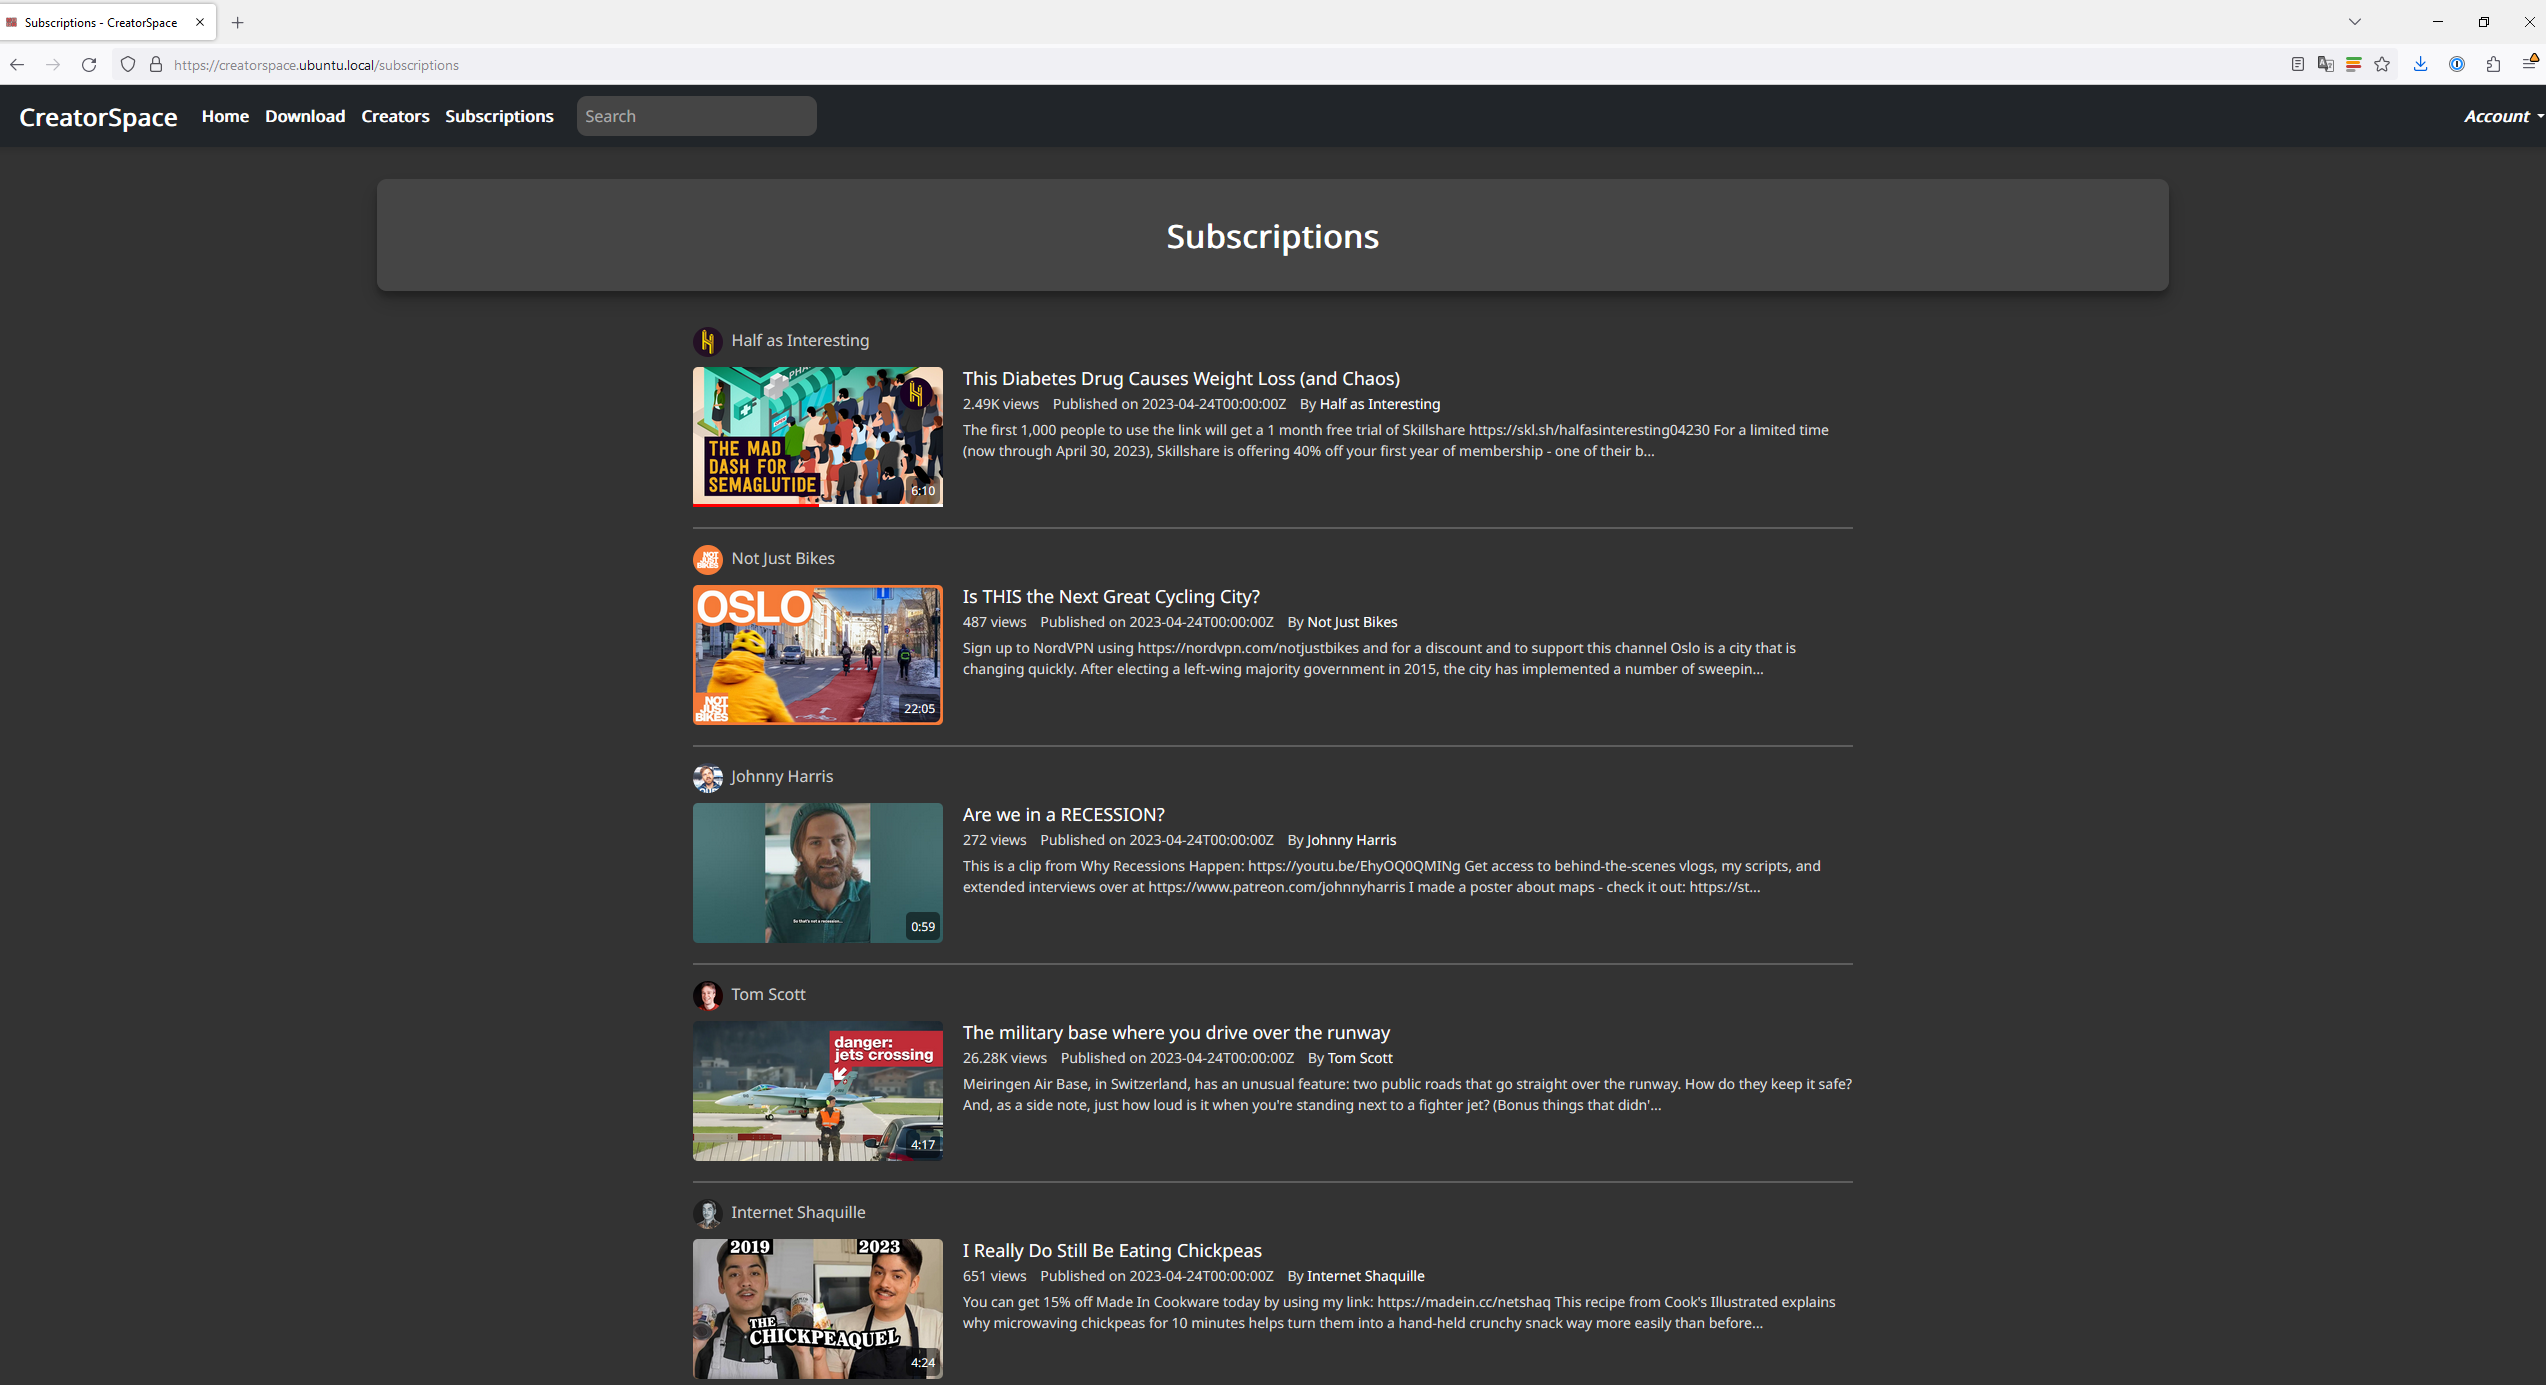
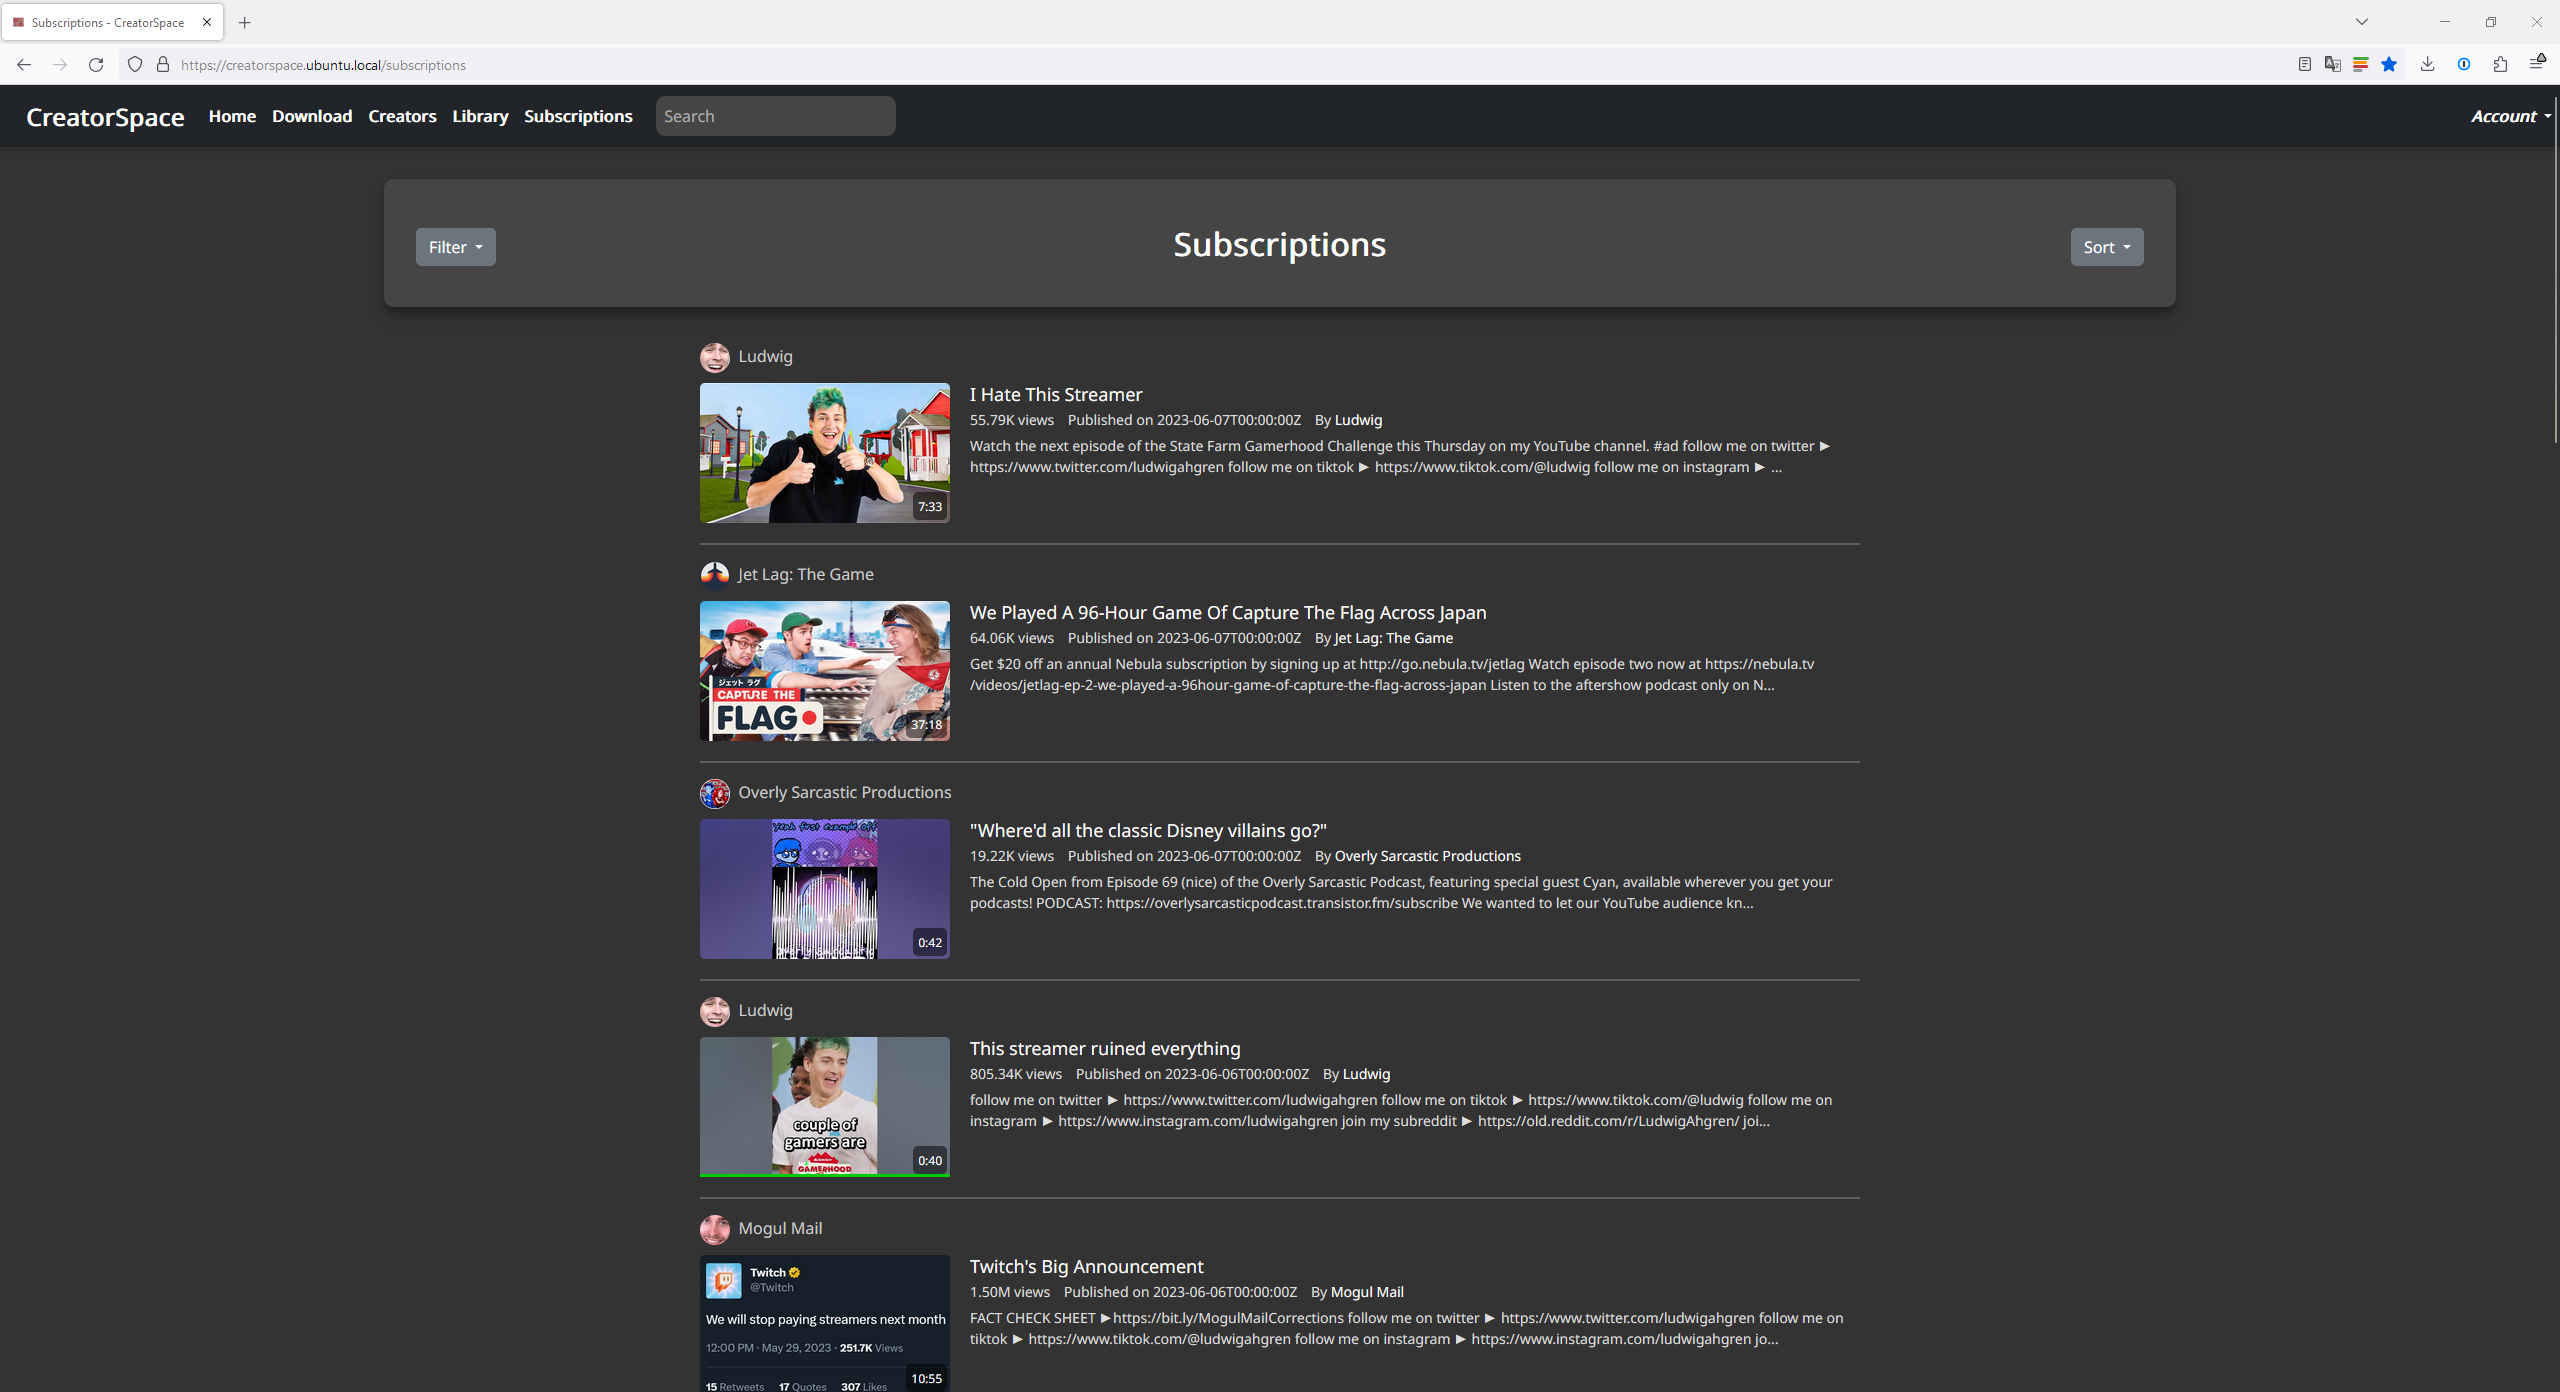
Update README.md and images

diff --git a/README.md b/README.md
@@ -33,14 +33,24 @@
 <details>
 <summary>Click to expand</summary>
 
+***Subscriptions*** - View all of your subscriptions in one place.
 ![Subscriptions](./.github/img/subscriptions.png)
 
+***Creator View*** - View all of the videos for a specific creator.
 ![Creator View](./.github/img/creator.png)
 
+***Library View*** - View all of the videos in your library.
+![Library View](./.github/img/library.png)
+
+***Creators*** - View all of the creators in your library.
+![Creators](./.github/img/creators.png)
+
+***Video Playback*** - Watch and playback videos directly from the application.
 ![Video View](./.github/img/video-playing.png)
 
 ![Comments and Recommendations](./.github/img/comments-recommendations.png)
 
+***On-Disk Archival*** - All videos, metadata, and updates are saved to disk.
 ![On-Disk Info](./.github/img/disk-creator.png)
 
 </details>
